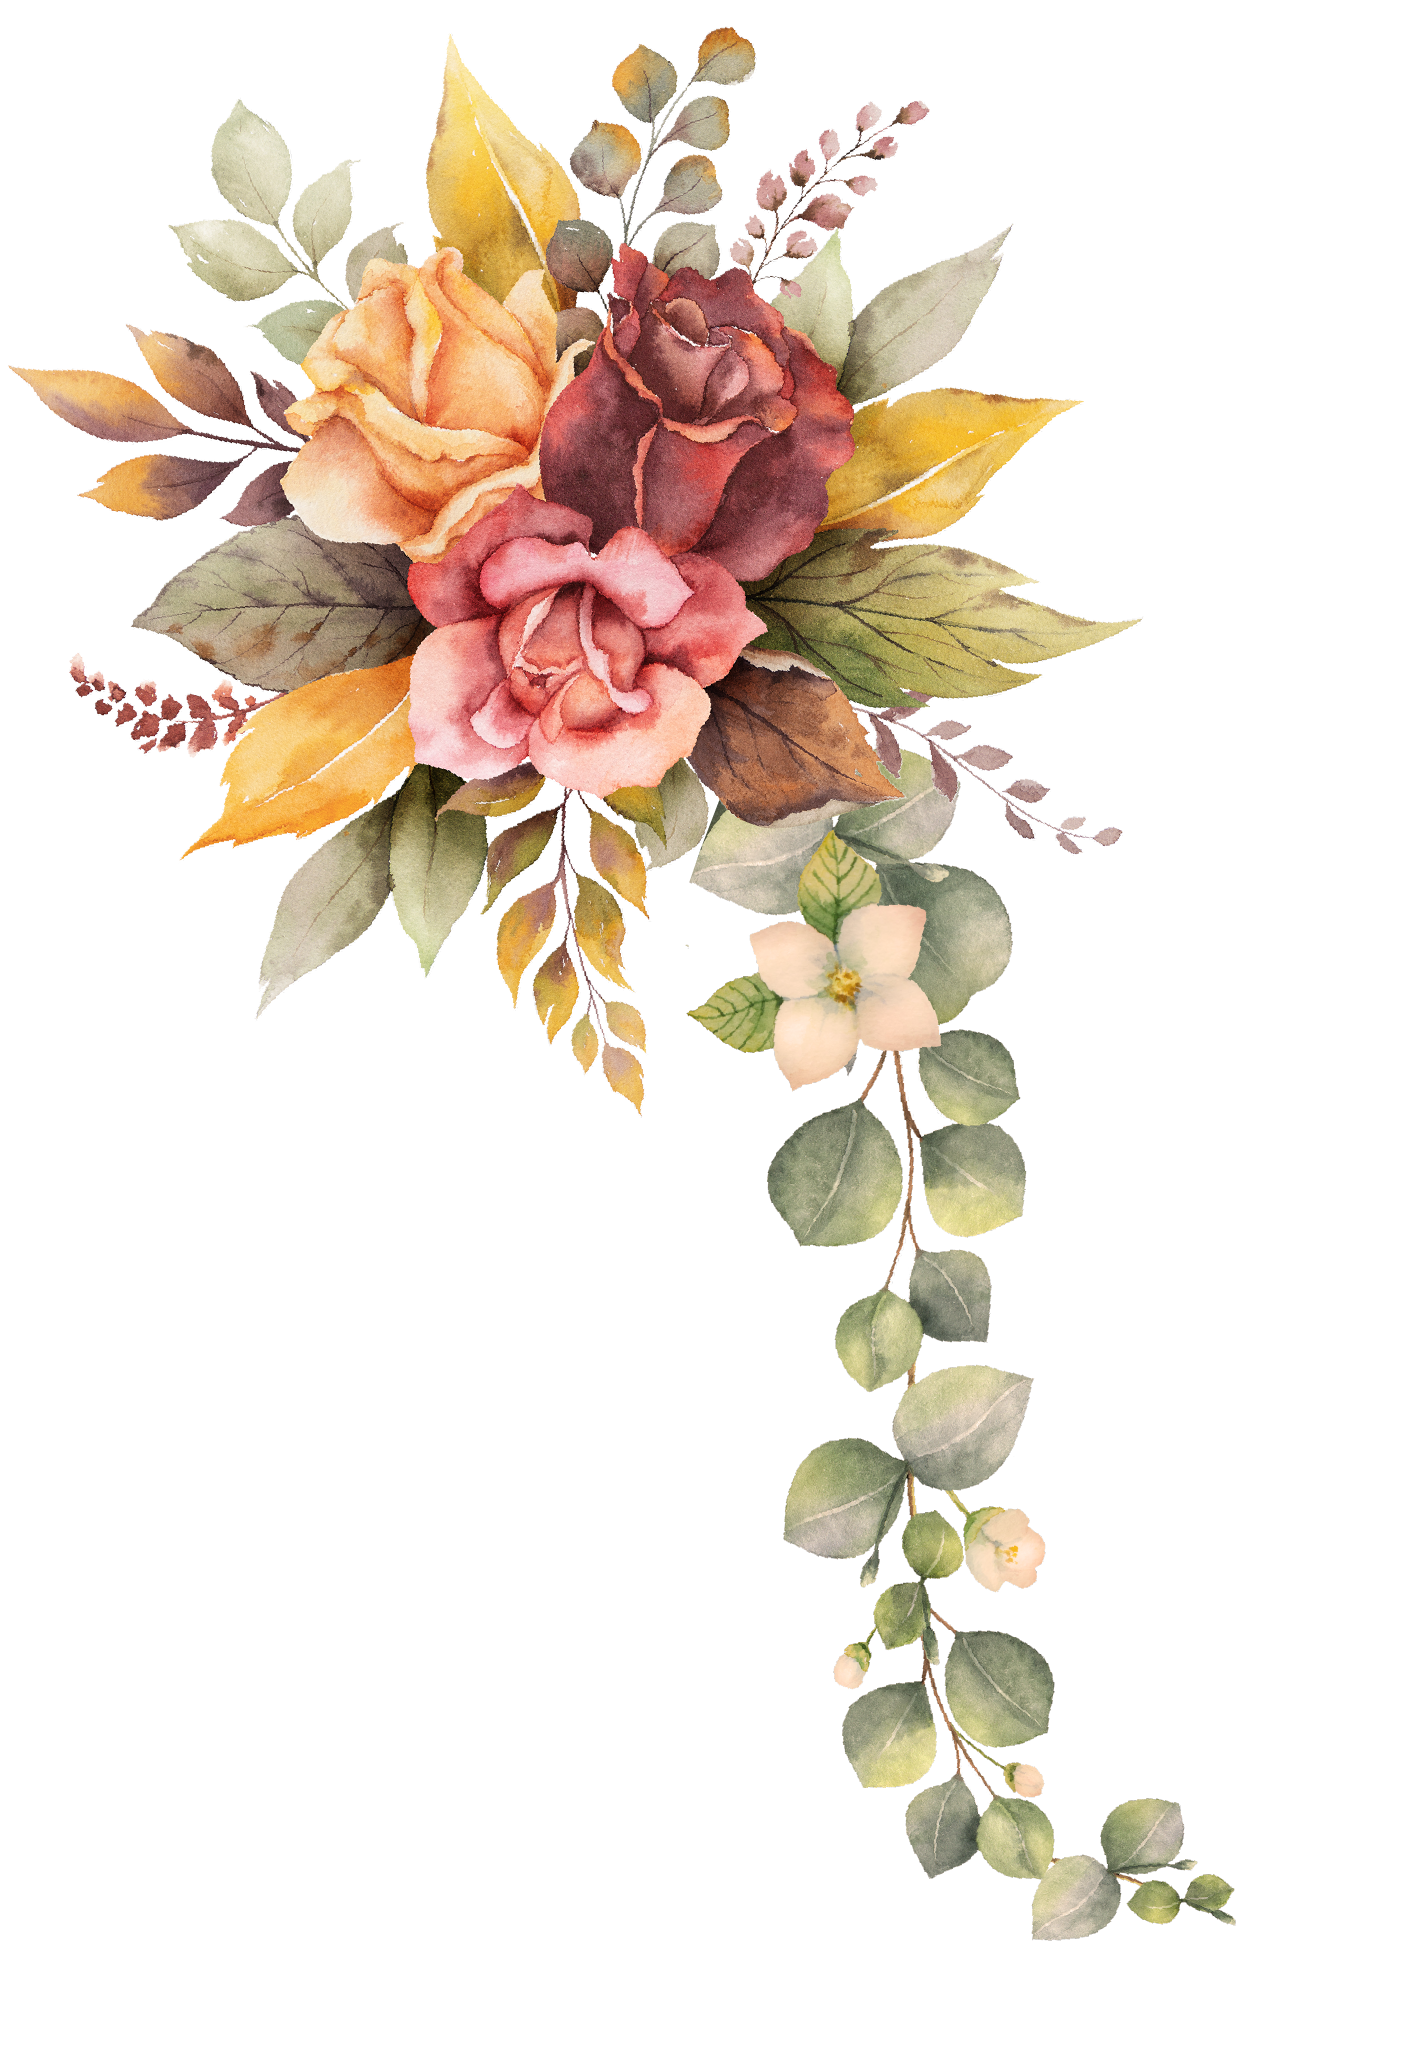
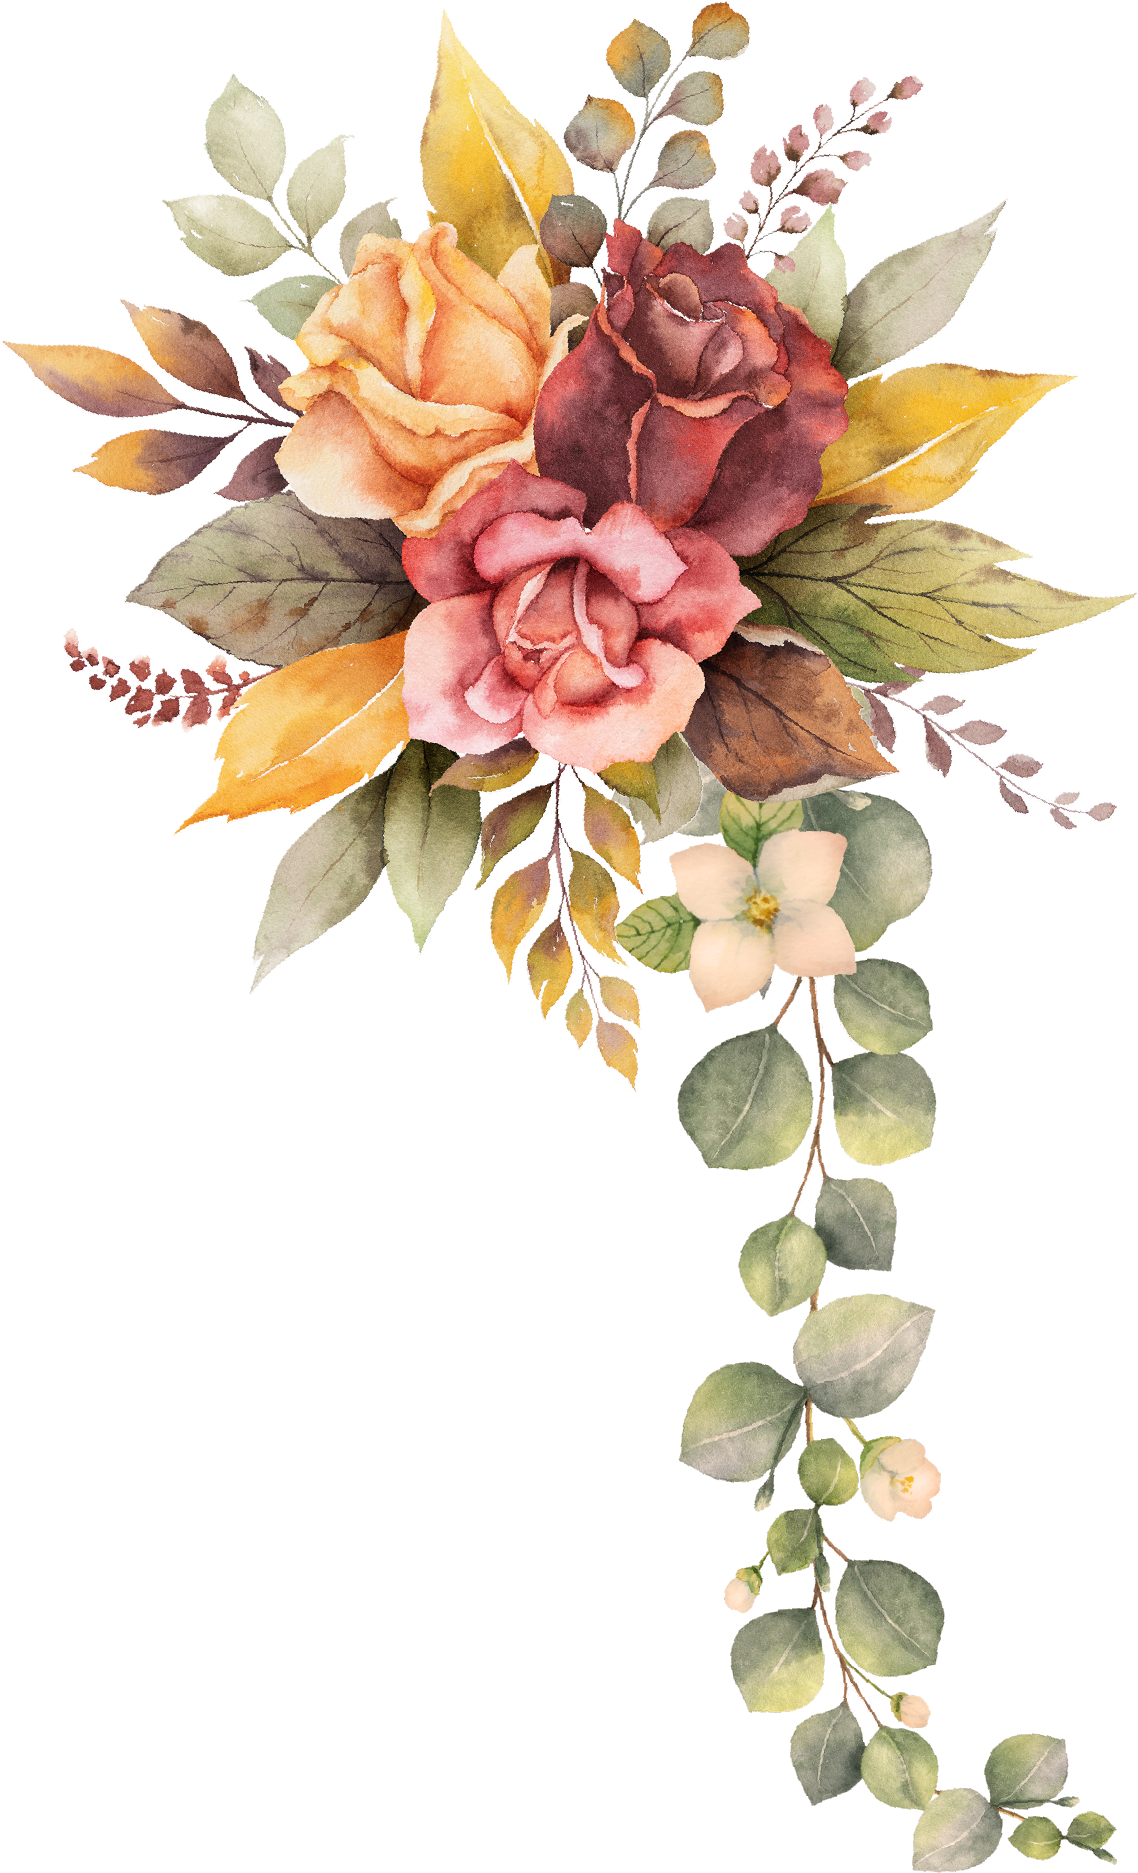
invite rady

diff --git a/src/views/InviteView.vue b/src/views/InviteView.vue
@@ -1,7 +1,127 @@
 <template>
-  <div class="about">
-    <h1>This is an about page</h1>
+  <div class="container">
+    <div class="invite__container">
+      <div class="invite__greet">
+        <h1 class="display-2 text-center mb-5">
+          Hola <br />
+          Tio P, Leona y Juanita
+        </h1>
+        <h2 class="display-5 text-center">
+          Con amor y profunda alegría queremos invitarlos a que nos acompañen en
+          un día muy especial, porque…
+        </h2>
+      </div>
+    </div>
+    <div class="invite__container">
+      <div class="row gx-0 justify-content-center">
+        <div class="col-10 col-md">
+          <div class="invite__flores-1">
+            <img src="../assets/flores1.png" alt="" />
+          </div>
+        </div>
+        <div class="col">
+          <h2 class="display-4 text-center mb-4 mb-md-5">Nos casamos!</h2>
+          <div class="invite__logo">
+            <img src="../assets/maoyjhana.svg" alt="" />
+          </div>
+          <div class="invite__p px-md-5">
+            <p class="text-center mb-0 px-md-4">
+              Con la ayuda de Dios y de los Ángeles nos conocimos, con su guía
+              divina nos realizamos y en nuestro amor su presencia descubrimos,
+              por lo que queremos hacerlos partícipes de la unión que a ellos
+              consagramos.
+            </p>
+          </div>
+        </div>
+      </div>
+    </div>
+    <div class="invite__container">
+      <div class="row justify-content-center">
+        <div class="col">
+          <div class="invite__video">
+            <iframe
+              src="https://www.youtube.com/embed/g62fEahdm9k"
+              title="YouTube video player"
+              frameborder="0"
+              allow="accelerometer; autoplay; clipboard-write; encrypted-media; gyroscope; picture-in-picture"
+              allowfullscreen
+            />
+            <img src="../assets/frame.png" alt="" />
+          </div>
+        </div>
+      </div>
+    </div>
+    <div class="invite__container">
+      <div class="row align-items-center justify-content-center gx-0">
+        <div class="col-8 col-md">
+          <div class="invite__flores-1">
+            <img class="d-block d-md-none" src="../assets/flores1.png" alt="" />
+            <img class="d-none d-md-block" src="../assets/flores2.png" alt="" />
+          </div>
+        </div>
+        <div class="col-md">
+          <div class="invite__texto-fecha-img">
+            <img src="../assets/texto-fecha.svg" alt="" />
+          </div>
+          <div class="invite__devider" />
+          <div class="invite__texto-1-img">
+            <img src="../assets/texto1.svg" alt="" />
+          </div>
+          <div class="invite__devider" />
+          <div class="invite__texto-2-img">
+            <img src="../assets/texto2.svg" alt="" />
+          </div>
+        </div>
+      </div>
+    </div>
+    <div class="invite__container">
+      <div class="row justify-content-center">
+        <div class="col-md-10">
+          <div class="invite__map">
+            <img src="../assets/mapa.svg" alt="" />
+          </div>
+        </div>
+      </div>
+    </div>
   </div>
 </template>
 
-<style lang="sass"></style>
+<style lang="sass">
+.invite
+  &__container
+    min-height: 100vh
+    min-width: 100%
+    display: flex
+    align-items: center
+    justify-content: center
+  &__p
+    p
+      font-size: 25px
+      color: #703138
+  &__video
+    position: relative
+    width: 100%
+    // padding-top: 177.7777778%
+    img
+      position: relative
+      pointer-events: none
+      box-shadow: 4.3px 8.6px 8.6px hsl(0deg 0% 0% / 0.37)
+    iframe
+      position: absolute
+      top: 10%
+      left: 14%
+      width: 72%
+      height: 80%
+  &__texto-1-img
+    padding-left: 15%
+    padding-right: 15%
+  &__texto-2-img
+    padding-left: 10%
+    padding-right: 10%
+
+  &__devider
+    opacity: 1
+    margin: 8% 0
+    height: 2px
+    background-color: #703138
+</style>

diff --git a/src/App.vue b/src/App.vue
@@ -15,6 +15,8 @@ import HelloWorld from '@/components/HelloWorld.vue'
 *
   font-family: 'Tiro Devanagari Sanskrit', serif
 
+h1, h2, h3
+  color: #703138
 
 .main-container
   min-height: 100vh
@@ -22,4 +24,8 @@ import HelloWorld from '@/components/HelloWorld.vue'
   background-repeat: no-repeat
   background-attachment: fixed
   background-size: cover
+
+img
+  display: block
+  width: 100%
 </style>
